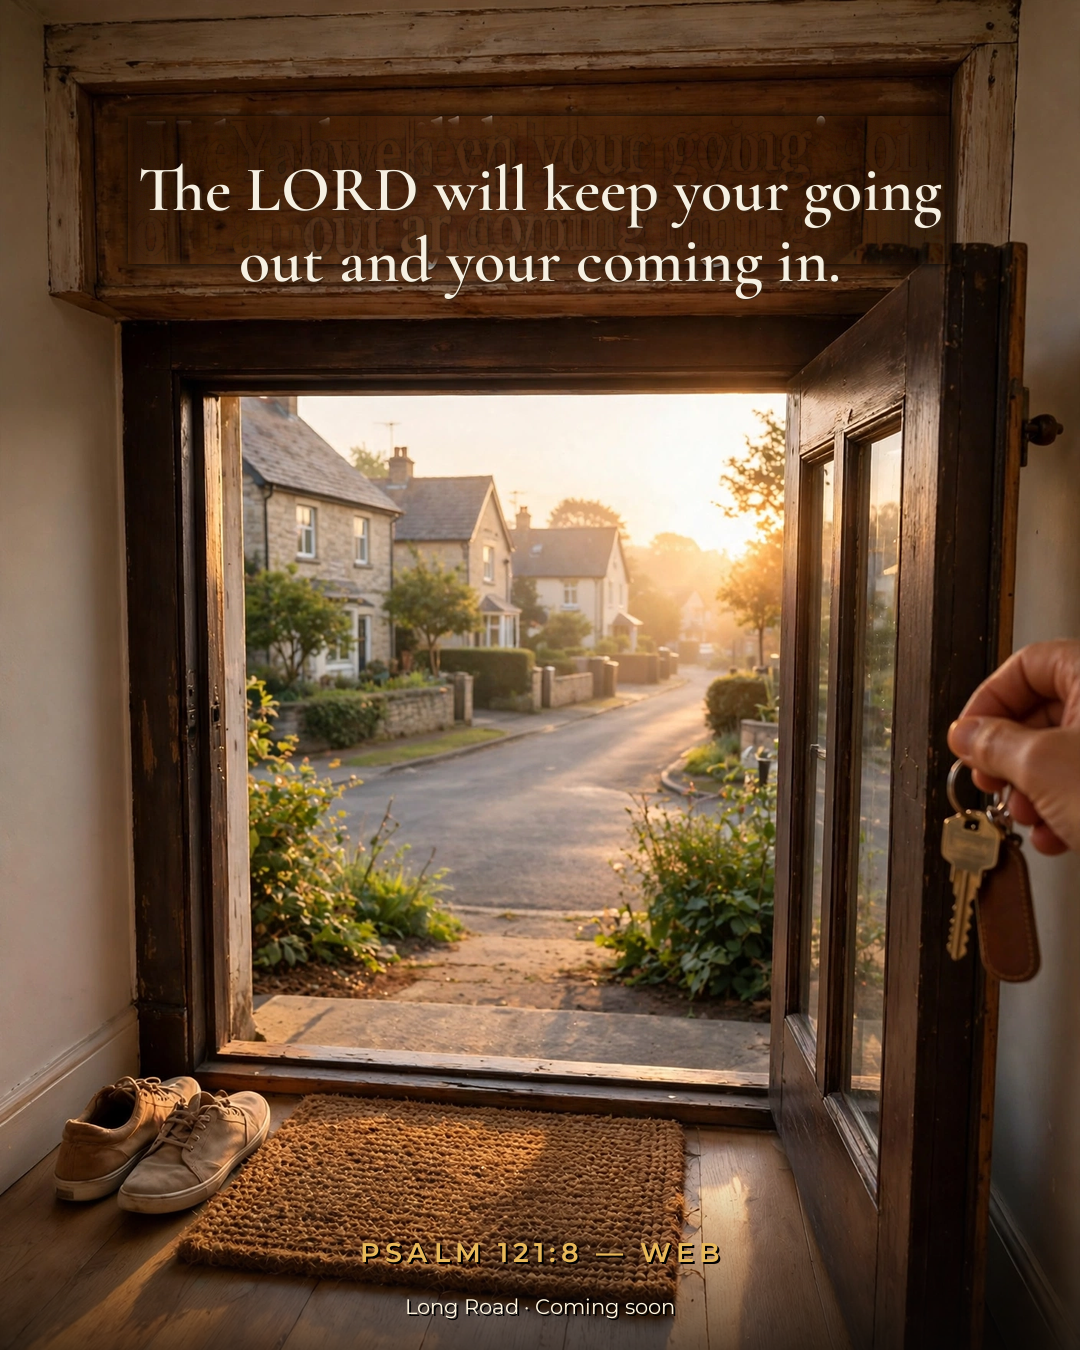
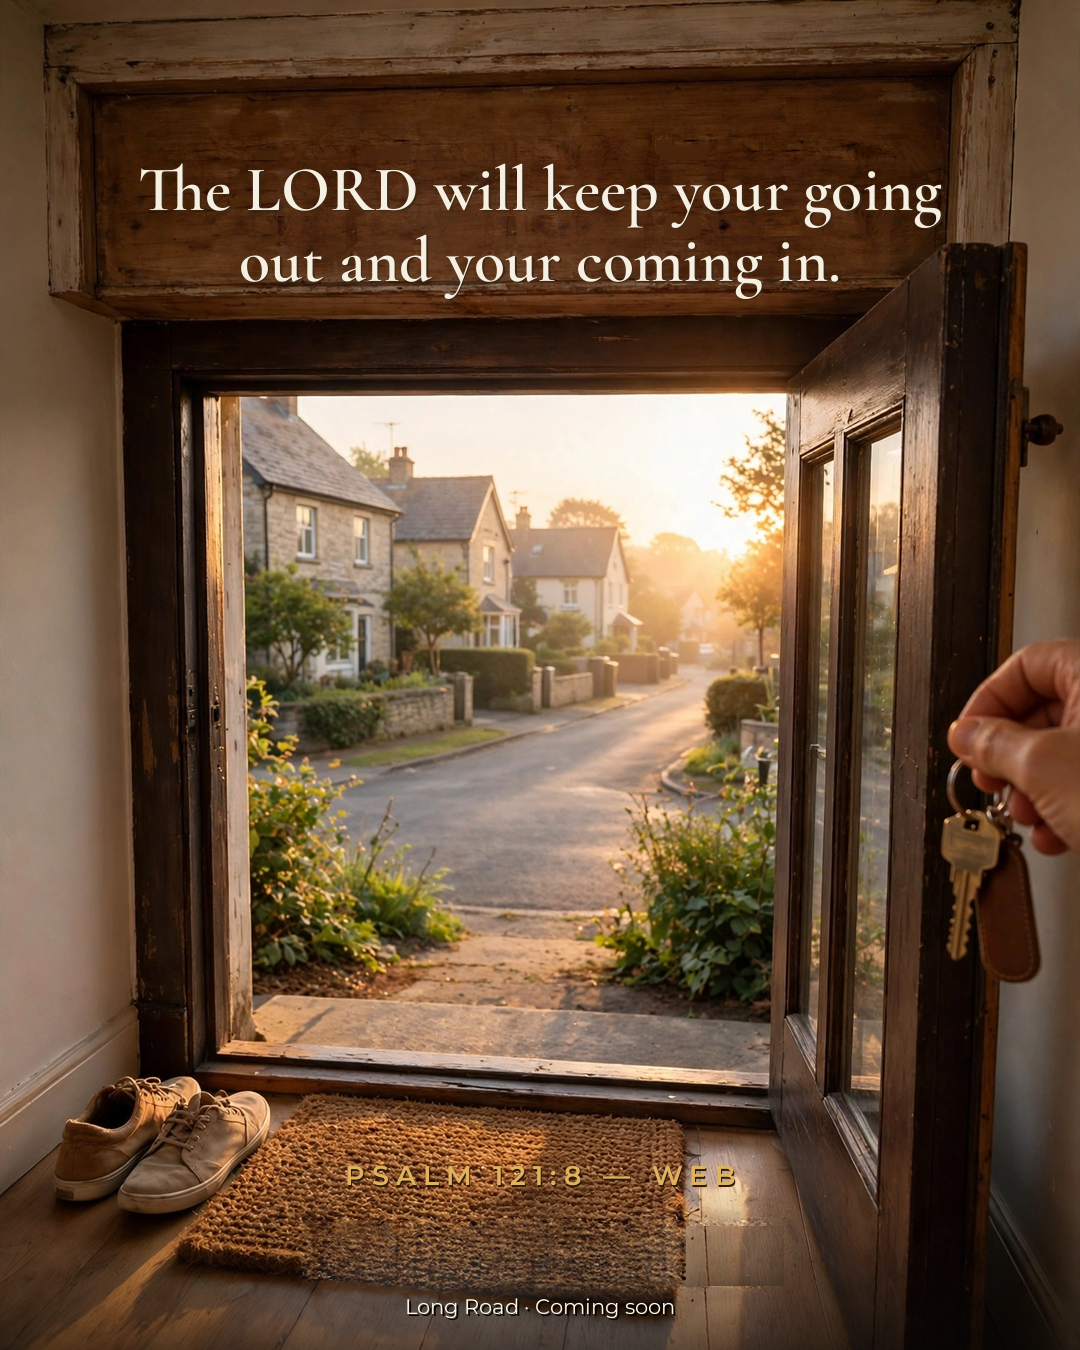
Replace Long Road Instagram files with fixed versions
Re-deliver fixed files replacing the gate-failed versions in long-road-ig-replacements-nov18-24/: nov18-threshold-final.png, nov18-threshold-grid-square.png, nov18-caption.md, nov24-light-that-stays-final.png, nov24-light-that-stays-grid-square.png, nov24-caption.md, qa-report.md (with gate-fix section).

diff --git a/long-road-ig-replacements-nov18-24/qa-report.md b/long-road-ig-replacements-nov18-24/qa-report.md
@@ -50,3 +50,37 @@ Evidence:
 - `nov24-light-that-stays-grid-square.png` — 1:1 grid crop of the final
 - `nov24-caption.md` — paste-ready caption + gate checks
 - `qa-report.md` — this report
+
+---
+
+## Gate fix — 2026-11-11
+
+Rework after the CoS QA gate FAIL on the first delivery. Gate-failed versions are preserved in `work/gate-failed-v1/` (finals, squares, captions, and the pre-fix qa-report). All work was local to this folder — no Slack, GitHub, or Instagram activity. Finals keep the same filenames; both grid squares were regenerated from the fixed finals and verified pixel-exact as centre crops (y 135–1215).
+
+### Nov 18 · Threshold — gate items 1–3
+
+**1. Ghost text on the lintel (dark remnants of the removed "Yahweh" lettering) — FIXED.**
+Root cause of the first fix's failure: the old lettering was removed with a per-pixel *minimum* composite across shifted copies, which preferentially selects dark pixels — i.e. it preserved the letters' dark drop-shadow/halo — and the verification only counted *bright* remnants, so the dark letterforms passed undetected.
+Rebuild method (from the untouched source render, script `work/fix_threshold_gate10.py`): the panel face (x 96–974, y 100–296) was reconstructed as a diffusion low-frequency surface plus detail composited from geometric transforms (flips/rolls) of the panel itself, under a strict halo-free donor rule — no texture was sampled within 9 px of any old letter pixel, so neither the bright letterforms nor their dark shadow halo can be copied in; the panel's edge bevels and bottom ledge were additionally excluded as donors after they were caught importing vertical wear strips. The cream verse was then re-set in the same house style (Cormorant Garamond SemiBold, 64 px, cream 246/240/226 with dark offset shadow): "The LORD will keep your going out and your coming in." — letter-for-letter, house rendering of Psalm 121:8 WEB.
+Evidence (inspected, not just measured):
+- 100% crops of the rebuilt panel before text (`work/gatefix10-lintel-cleaned.png`) and of the final (`work/gatefix-final-lintel-100pct.png`), plus inverted views (`gatefix10-lintel-cleaned-inverted.png`, `gatefix-final-lintel-inverted.png`) and a high-pass view (`gatefix-final-lintel-highpass.png`): no glyph shapes, bright or dark, anywhere on the panel — only wood grain, knots and the board's natural horizontal streaks.
+- Bright-neutral remnant pixels in the panel after rebuild: **0**. Mean luminance deviation sampled on the old letterforms' exact pixel positions: **−0.15** (panel mean ≈ 0) — i.e. zero correlation with the old letter template, where the failed version showed readable dark text. High-pass (texture) energy in the rebuilt area is the same order as genuine clean wood (3.4–5.8 vs 5.3 mean |HP|, varying by sub-band).
+
+**2. Reference below the grid crop — FIXED.**
+"PSALM 121:8 — WEB" sat at y1243–1261 on the doormat, below the square (bottom y1215). The old line was erased and the reference re-set higher on the doormat: drawn-ink bbox **x 347–735, y 1165–1187** — fully inside the square with a **28 px margin** to the square's bottom edge, in the original gold tracked style (Montserrat SemiBold, gold 224/178/94, width matched to the original 390 px). Erase method: organic (glyph-shaped) mask composite erase, a vertical clone-stamp for the small floorboard sliver, and a wide organic low-frequency blend so no rectangular patch boundary remains (scripts `work/fix_threshold_gate11.py` + gate14/gate17 passes in-line). The "Long Road · Coming soon" footer is unchanged and stays in the 4:5-only band (y1299–1317), as permitted. Evidence: `work/gatefix17-nov18-bottom-final.png` (100% bottom crop — old line gone, no patch edges, mat fibre and floor sheen continuous) and the delivered square, where the reference is fully visible on the mat.
+
+**3. Caption credit line — FIXED.**
+`nov18-caption.md` now credits "— Psalm 121:8 (WEB)", matching Nov 24's format. The divine-name word was removed from the caption file entirely (verified: 0 occurrences in either caption file); the gate-check notes were rewritten accordingly, including the grid-crop note, which now records the reference inside the square.
+
+### Nov 24 · Light That Stays — gate item
+
+**Mirrored puddle reflection of the verse — REMOVED; footer relocated onto clean pavement inside the square.**
+The whole reflection zone below the verse (y1176–1350, x120–960) was rebuilt as clean dark pavement: diffusion low-frequency surface + fine grain matched to nearby genuine pavement (σ ≈ 3 luminance units) + sparse wet-stone glints + the lamp's warm streak re-added at the strength measured from glyph-free rows above the verse (median deviation 9.3, decayed with depth). Two earlier attempts were rejected on inspection: a per-pixel glyph mask missed the reflections' soft low-contrast strokes, and transplanted detail from the bright lamp pool produced visible speckle (bright-pixel counts and crops in the run log). The verse itself and the gold "JOHN 1:5 — WEB" line are **pixel-identical** to the gate-failed version (max abs diff 0 across y700–1172) — the verse still reads exactly "The light shines in the darkness, and the darkness hasn't overcome it." (John 1:5 WEB).
+The footer "Long Road · Coming soon" was redrawn on the clean pavement at ink **y1182–1201** (Montserrat Regular, width 271 px, matching the Nov 18 footer's measure), so it is fully legible in **both** the 4:5 final and the grid square (14 px margin to the square's bottom edge), with no reflection text behind or below it. Evidence: `work/gatefix5-nov24-bottom-final.png` and `work/gatefix5-nov24-square-bottom.png` (100% crops — no letterforms under the verse in either; footer crisp on plain dark pavement), plus inverted crop `gatefix3-nov24-bottom-inverted.png` from the same rebuild. Residual bright pixels >45 luminance in the zone (excluding the footer) are 1,899 sparse single glints vs ~12–14k glyph pixels before.
+
+### Tone / format re-verification (both items)
+
+- Finals 1080×1350 PNG; squares 1080×1080 PNG, pixel-verified exact centre crops of the fixed finals.
+- Nov 18 square mean luminance **87.5** (pre-fix 89.4) — **LIGHT-WARM** unchanged. Nov 24 square mean luminance **33.0** (pre-fix 32.5) — **DARK-WARM** unchanged.
+- Nov 18 doorway scene below the lintel is pixel-identical to the source render (max abs diff 0, y400–1000); Nov 24 verse band pixel-identical as noted above. "Coming soon" wording exact in both images and captions; no dates or availability claims.
+- Both finals and both squares were viewed full-frame after the fix, in addition to the 100% crops listed above.

diff --git a/long-road-ig-replacements-nov18-24/nov18-caption.md b/long-road-ig-replacements-nov18-24/nov18-caption.md
@@ -8,7 +8,7 @@
 Over every door you walk through today.
 
 "The LORD will keep your going out and your coming in, from this time forward, and forever more."
-— Psalm 121:8 (WEB — "Yahweh" rendered "the LORD")
+— Psalm 121:8 (WEB)
 
 In plain words: He keeps watch over every leaving and every return — starting now, and it doesn't expire.
 
@@ -22,9 +22,9 @@ Send this to someone heading out into a hard day.
 
 ## Gate checks
 
-- **Verse wording:** Psalm 121:8 only, word-for-word WEB with the house divine-name rendering. Raw WEB (Bible Gateway / wd.bible): "Yahweh will keep your going out and your coming in, from this time forward, and forever more." Only substitution: "Yahweh" → "the LORD", noted in the credit line. No "Yahweh" anywhere in image or caption. ✓
-- **On-image text:** "The LORD will keep your going out and your coming in." — the v1 design's in-scene fragment (first clause of the verse, same fragment pattern as Ticket Stub / Lunch Note); the full verse is carried in this caption. The source render's on-image "Yahweh" was a gate defect — corrected in the final (see qa-report.md). ✓
-- **Grid crop:** verse fully inside the 1:1 centre crop, large and legible (verified on nov18-threshold-grid-square.png). Gold reference line + footer sit in the bottom band and crop out of grid view, by design (grid-plan §3 pattern). ✓
+- **Verse wording:** Psalm 121:8 only, word-for-word WEB with the house divine-name rendering ("the LORD"). The divine-name word appears nowhere in the image or this caption. ✓
+- **On-image text:** "The LORD will keep your going out and your coming in." — the v1 design's in-scene fragment (first clause of the verse, same fragment pattern as Ticket Stub / Lunch Note); the full verse is carried in this caption. The source render's divine-name wording was a gate defect — the lintel was rebuilt to clean wood and the verse re-set; no trace of the old lettering remains, bright or dark (see qa-report.md, "Gate fix — 2026-11-11"). ✓
+- **Grid crop:** verse fully inside the 1:1 centre crop, large and legible (verified on nov18-threshold-grid-square.png). The gold reference line ("PSALM 121:8 — WEB") now also sits fully inside the square, on the doormat with margin (ink y1165–1187; square bottom edge y1215). The "Long Road · Coming soon" footer stays in the 4:5-only band below the square. ✓
 - **"Coming soon":** exact wording, in the image footer ("Long Road · Coming soon") and the caption house line. No dates, no availability claims. ✓
 - **No Bella** ✓ · **@iwishhewood not tagged or mentioned** ✓ · **No family details** ✓
 - **Save/send ask:** present ("Send this to someone heading out into a hard day."). ✓

diff --git a/long-road-ig-replacements-nov18-24/nov24-caption.md b/long-road-ig-replacements-nov18-24/nov24-caption.md
@@ -23,7 +23,7 @@ Save this for a dark night.
 ## Gate checks
 
 - **Verse wording:** John 1:5, word-for-word WEB, identical on-image and in caption (verified against Bible Gateway / StudyLight / eBible WEB text: "The light shines in the darkness, and the darkness hasn't overcome it."). No divine name in this verse — no substitution involved. ✓
-- **Grid crop:** all three verse lines AND the gold reference line ("JOHN 1:5 — WEB") fully inside the 1:1 centre crop, legible (verified on nov24-light-that-stays-grid-square.png). Footer crops out of grid view, by design. ✓
+- **Grid crop:** all three verse lines AND the gold reference line ("JOHN 1:5 — WEB") fully inside the 1:1 centre crop, legible (verified on nov24-light-that-stays-grid-square.png). The mirrored text reflection that previously ran under the verse has been removed entirely, and the footer now sits on clean dark pavement below the verse, fully legible in BOTH the 4:5 final and the grid square (ink y1182–1201; square bottom edge y1215) — see qa-report.md, "Gate fix — 2026-11-11". ✓
 - **"Coming soon":** exact wording, in the image footer ("Long Road · Coming soon") and the caption house line. No dates, no availability claims. ✓
 - **No Bella** ✓ · **@iwishhewood not tagged or mentioned** ✓ · **No family details** ✓
 - **Save/send ask:** present ("Save this for a dark night."). ✓
